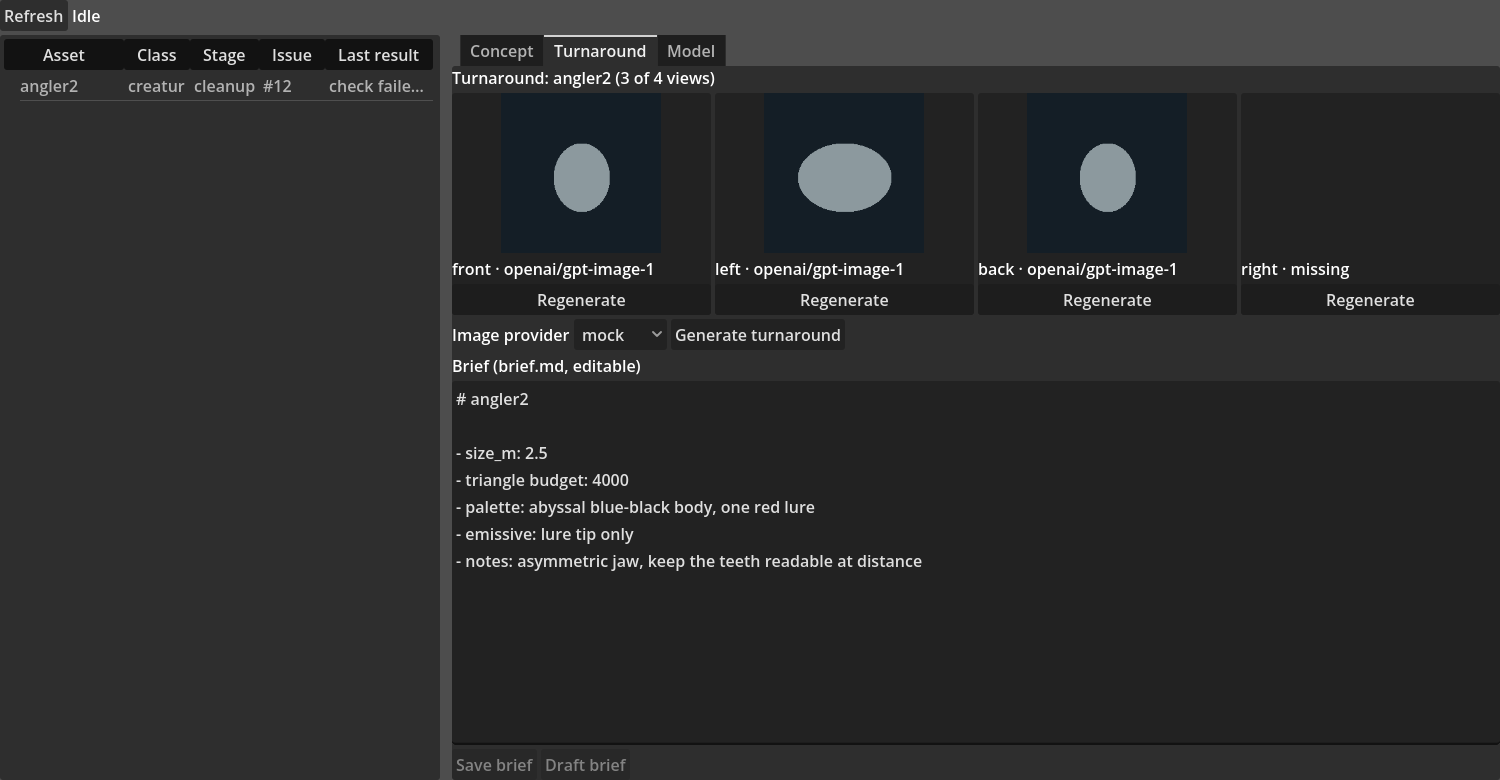
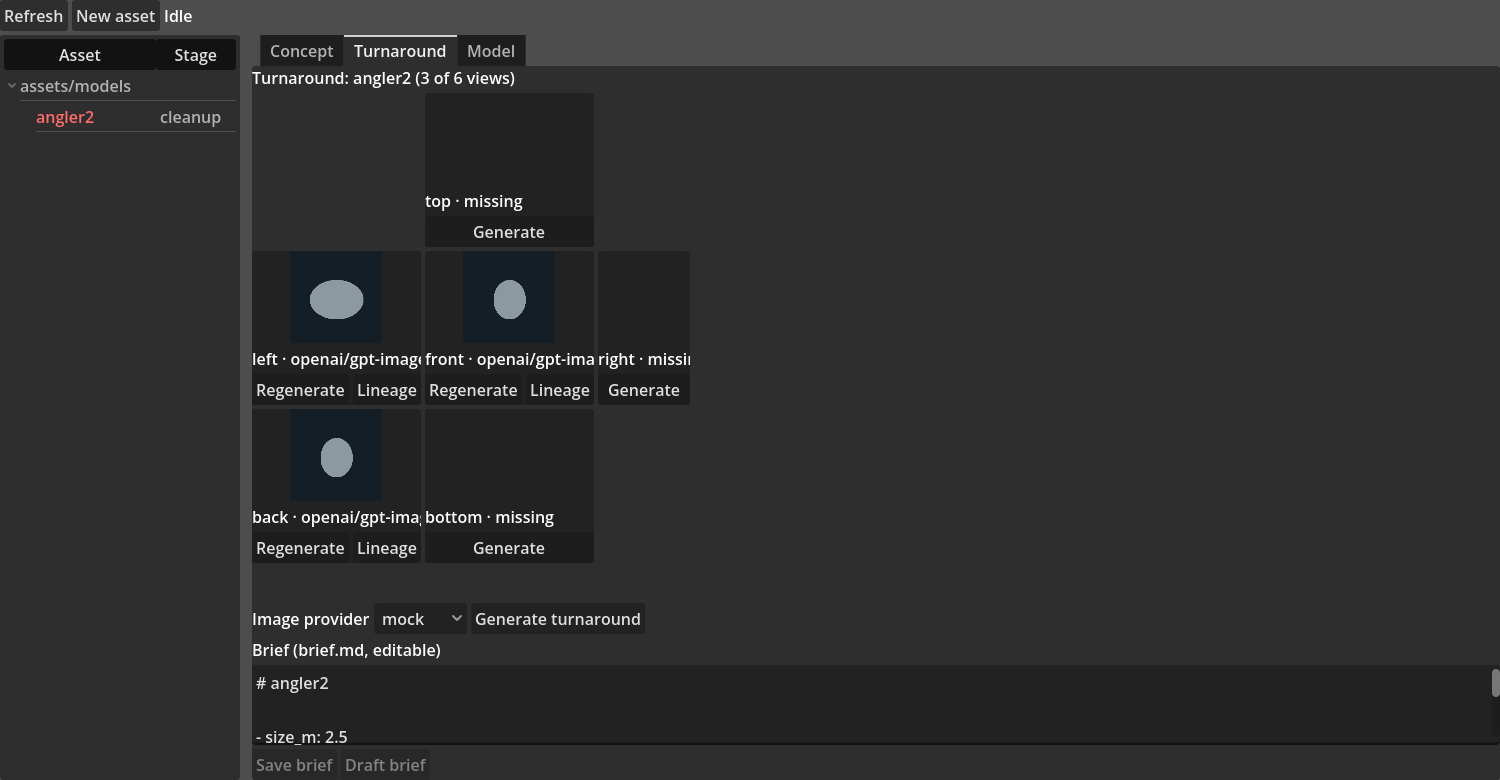
M10.26 · Turnaround cross layout in Asset Studio
Refs #291

diff --git a/docs/asset_pipeline.md b/docs/asset_pipeline.md
@@ -44,7 +44,7 @@ Enabled in `project.godot`; adds an **Asset Studio** tab next to 2D / 3D / Scrip
 - **Queue** (left): a collapsible folder tree mirroring `assets/models/`; rows show name and stage only (class, issue, cost and last result are in the row tooltip and the selected asset's header). The splitter is draggable and its position is remembered (`user://asset_studio.cfg`). Drag an asset onto a folder to move it, or a folder into another to nest it; right-click a folder for New asset here, New folder and Rename. Every move is a backend command (`move <slug> --to`, `folder create|move|rename`, `new --folder`) followed by a refresh; the plugin never moves files. New asset uses the selected folder, else the selected asset's folder, else the root. It reads `asset list`, whose assets may carry a `folder` and whose output may carry a `folders` array (so empty folders show). The status bar shows the latest stderr line of a running command. GDScript has no YAML reader, so the plugin reads `asset list`, which prints every manifest as JSON along with the configured provider names.
 - **Remembered choices.** Each provider or writer dropdown (Concept image provider and prompt writer, Turnaround image provider, Model 3D provider) keeps the value last chosen, per dropdown and per machine, in `EditorSettings.set_project_metadata` (never in committed config). It survives an action and its refresh, switching assets and an editor restart. With nothing remembered, or a remembered value no longer configured, the dropdown shows the effective selection from `asset list` (`providers.local.yaml`, then `providers.yaml`). When that effective choice is `mock` while a real provider of that kind has its key set (process environment or `tools/asset_pipeline/.env`), the entry reads "mock (no cost, placeholder output)"; commands still receive the plain name.
 - **Concept** (right): a grid of variants with prompt and provider; per variant Approve (`lock`), Reject (`lock --decision rejected`), Refine with the notes box (`concept --refine … --notes …`) and Lineage; "Generate more" with an image-provider dropdown; a lineage panel (prompt, model, parent for each ancestor).
-- **Turnaround** (tab): the four views of the latest turnaround set side by side (front, left, back, right; a missing one is labelled), each with Regenerate (`turnaround --view <v>`), plus "Generate turnaround" with an image-provider dropdown. Below, the asset's `brief.md` in an editable box: Save writes the file directly (no service call); "Draft brief" (`brief`) needs all four views and is refused while there are unsaved edits, because the backend overwrites the file.
+- **Turnaround** (tab): the views of the latest turnaround set as a 3×3 cross around the front view (top above; left, front, right in the middle row; back bottom-left and bottom below front). Each cell has its label, Regenerate (`turnaround --view <v>`) and Lineage; a view not generated, such as top and bottom on a four-view asset, is a labelled empty slot with a Generate button (the same `--view` call). The grid scales to fit the tab at a fixed aspect ratio (`AssetTurnaroundModel.fit_cell_size`), the tab scrolls as a fallback, and clicking a view opens it larger in an overlay. Also "Generate turnaround" with an image-provider dropdown. Below, the asset's `brief.md` in an editable box: Save writes the file directly (no service call); "Draft brief" (`brief`) needs the four core views (front, left, back, right) and is refused while there are unsaved edits, because the backend overwrites the file.
 - **Model** (tab): a SubViewport preview per ticked run (up to three side by side, for the bake-off) lit like the game: its dark ambient, fog values copied from `game.tscn`, and the marine snow shader. Buttons: white/red light, wireframe, turntable. Each preview shows its triangle count; below are the runs (raw provider meshes and cleaned meshes) with their gate summary, the gate report of the first ticked run (pass/FAIL per gate, with the numbers) and buttons for `to3d` (one provider, or all for the bake-off), `cleanup`, `check` and `export`. Export is enabled only for a cleaned mesh whose gates passed. Raw meshes load from `.asset_work/` at runtime; a run with no file on disk shows an empty preview.
 - Code: view models `queue_model.gd`, `new_asset_model.gd` (the New asset dialog: slug rules and the `new` call), `concept_model.gd` (also the description and the `describe` call), `turnaround_model.gd`, `model_model.gd` (light, wireframe and turntable state live here) and `backend_result.gd` hold the logic and are unit-tested from `tests/fixtures/asset_studio/` (`tests/unit/test_asset_studio.gd`); `studio_panel.gd` is the UI, `model_preview.gd` the SubViewport preview and `backend_runner.gd` the async runner.
 - Screenshots with fixture data (`xvfb-run godot --path . res://tests/asset_studio_shot.tscn -- concept.png turnaround.png model.png`; the turnaround views and meshes in these are generated stand-ins).
